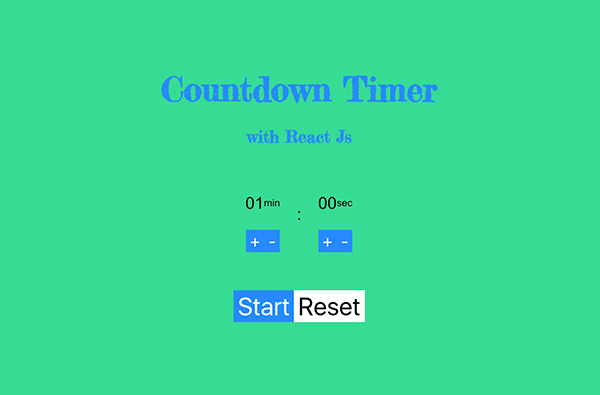
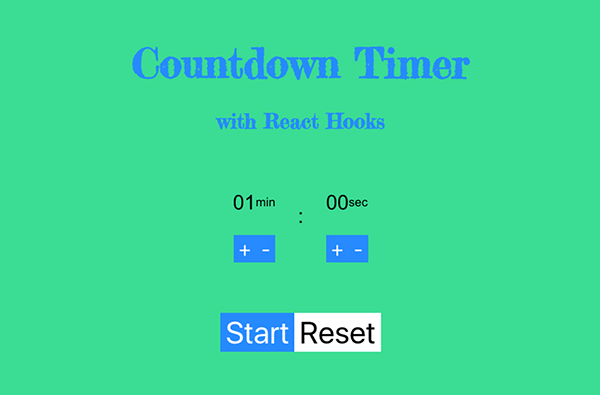
updated countdown project

diff --git a/index.html b/index.html
@@ -125,7 +125,9 @@
           <span>HTML5</span>
           <span>CSS3</span>
           <span>Scss</span>
-          <span>React</span>
+          <span>React Hooks</span>
+          <span>React Provider</span>
+          <span>React Context</span>
         </div>
       </div>
       <div class="image-project">
